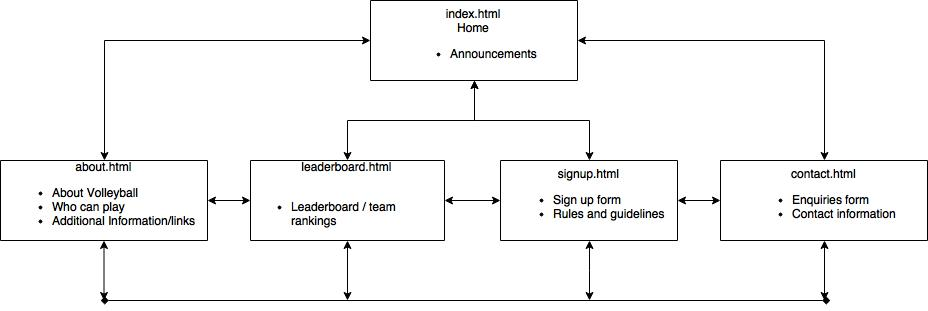
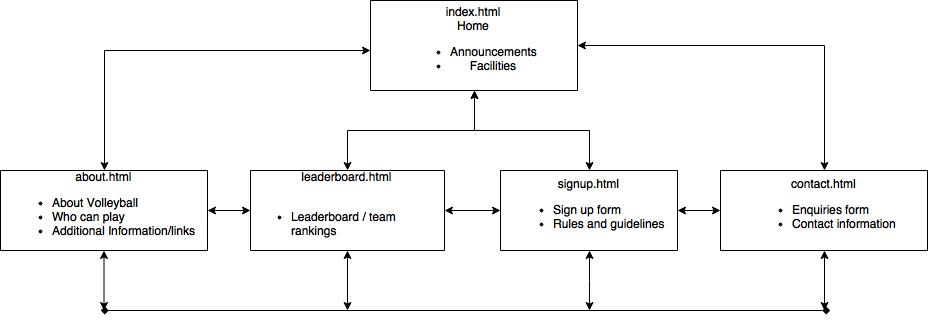
Home page content
Content and CSS file started with formatting. Additional work required
to align facilities to the right.

diff --git a/css/style.css b/css/style.css
@@ -1,0 +1,123 @@
+@charset "UTF-8";
+/* CSS Document */
+
+/* All HTML */
+
+html {
+	background: #A296BF;
+}
+
+/* Global Body */
+
+body {
+	background: #E3E5FB;
+	margin: 0em;
+	padding: 0em;
+}
+
+header {
+	font-size: 2em;
+	font-family: Gotham, "Helvetica Neue", Helvetica, Arial, "sans-serif";
+	text-align: center;
+	text-decoration: none;
+	margin: 0em;
+	padding: 0em;
+}
+
+/*All images */
+img {
+	width: 90%;
+	height: auto;
+	max-width: 100%;
+}
+
+/* Header image */
+header img {
+	float: inherit;
+	width: 40%;
+	height: 40%;
+}
+
+h2 {
+	font-size: 1.5em;
+	font-family: Gotham, "Helvetica Neue", Helvetica, Arial, "sans-serif";
+	text-align: center;
+	
+}
+
+p {
+	font-size: 1.5em;
+	font-family: Gotham, "Helvetica Neue", Helvetica, Arial, "sans-serif";
+	line-height: 1.5em;
+}
+
+/* Navigation */
+
+nav {
+	display: block;
+	height: 2.8em;
+	background: #D2D0FB;
+	text-align: center;
+}
+
+/* Nav with Unordred list */
+nav ul {
+	display: block;	
+}
+
+/* Nav with UL and LI */
+nav ul li {
+	display: inline;
+	margin: 0em 0.5em 0em 0.5em;
+}
+
+/* Nav, UL, LI, links */
+nav ul li a {
+	color: #3C3C3C;
+	padding: 0.25em 0.75em 0.25em 0.75em;
+	line-height: 1.5em;
+	font-size: 1.5em;
+	text-decoration: none;
+}
+
+/* Nav, UL, LI, Links hover */
+nav ul li a:hover {
+	background: #DEDEDE;
+	opacity: 0.3;
+	filter: alpha(opacity=50);
+	
+}
+
+#home {
+	display: block;
+	margin: 1.5em auto;
+	padding: 0.25em;
+	text-align: left;
+	width: 90%;
+	
+}
+
+#home li {
+	font-size: 1em;
+	font-family: Gotham, "Helvetica Neue", Helvetica, Arial, "sans-serif";
+	line-height: 1.5em;
+}
+
+#home article {
+	display:inline-block;
+	width: 60%;
+	margin-right: 5%;
+		
+}
+
+#home article facilities {
+	display:block;
+	width: 30%;
+	margin-left: 5%;
+}
+
+#home article h2 {
+	text-align: left;
+}
+
+}

diff --git a/index.html b/index.html
@@ -1,0 +1,40 @@
+<!doctype html>
+<html>
+<head>
+<meta charset="UTF-8">
+<title>Slammers Beach Volleyball - Home</title>
+<link href="css/style.css" rel="stylesheet" type="text/css">
+</head>
+
+<body>
+	<header>
+		<a href="index.htlm"><img src="images/vector_volleyball.jpg" /></a>
+	    <h1>Slammers Beach Volleyball</h1>
+	</header>
+<nav>
+		<ul>
+			<li><a href="index.html">Home</a></li>
+			<li><a href="about.html">About</a></li>
+			<li><a href="leaderboard.html">Leaderboard</a></li>
+			<li><a href="signup.html">Sign up</a></li>
+			<li><a href="contact.hmtl">Contact</a></li>
+  </ul>
+	</nav>
+<section id="home">
+		<article>
+			<img src="images/spike.jpg"/>
+			<h2>New Announcements</h2>
+			
+			<ul>
+				<li>During August only, you can purchase 4 drinks for the price of 3 at the bar.</li>
+				<li>New teams get a 20% discount on registration for the next season.</li>
+				<li>Slammers Tournament: Get your nominations in now for the next 4-a-side weekend competition.</li>
+				<li>New season starts August 21st.</li>
+			</ul>
+			<aside>
+				<h2>Facilities</h2>
+			</aside>
+		</article>
+	</section>
+</body>
+</html>

diff --git a/plan.html b/plan.html
@@ -29,7 +29,7 @@
  
  <h2>Site Flowchat</h2>
  	<p>
-		<img src="BeachVolleyball/images/siteflowchart.jpg" />
+		<img src="images/siteflowchart.jpg" />
 	</p>
  
 <h2>GitHub Repository</h2>

diff --git a/leaderboard.html b/leaderboard.html
@@ -1,0 +1,10 @@
+<!doctype html>
+<html>
+<head>
+<meta charset="UTF-8">
+<title>Untitled Document</title>
+</head>
+
+<body>
+</body>
+</html>
